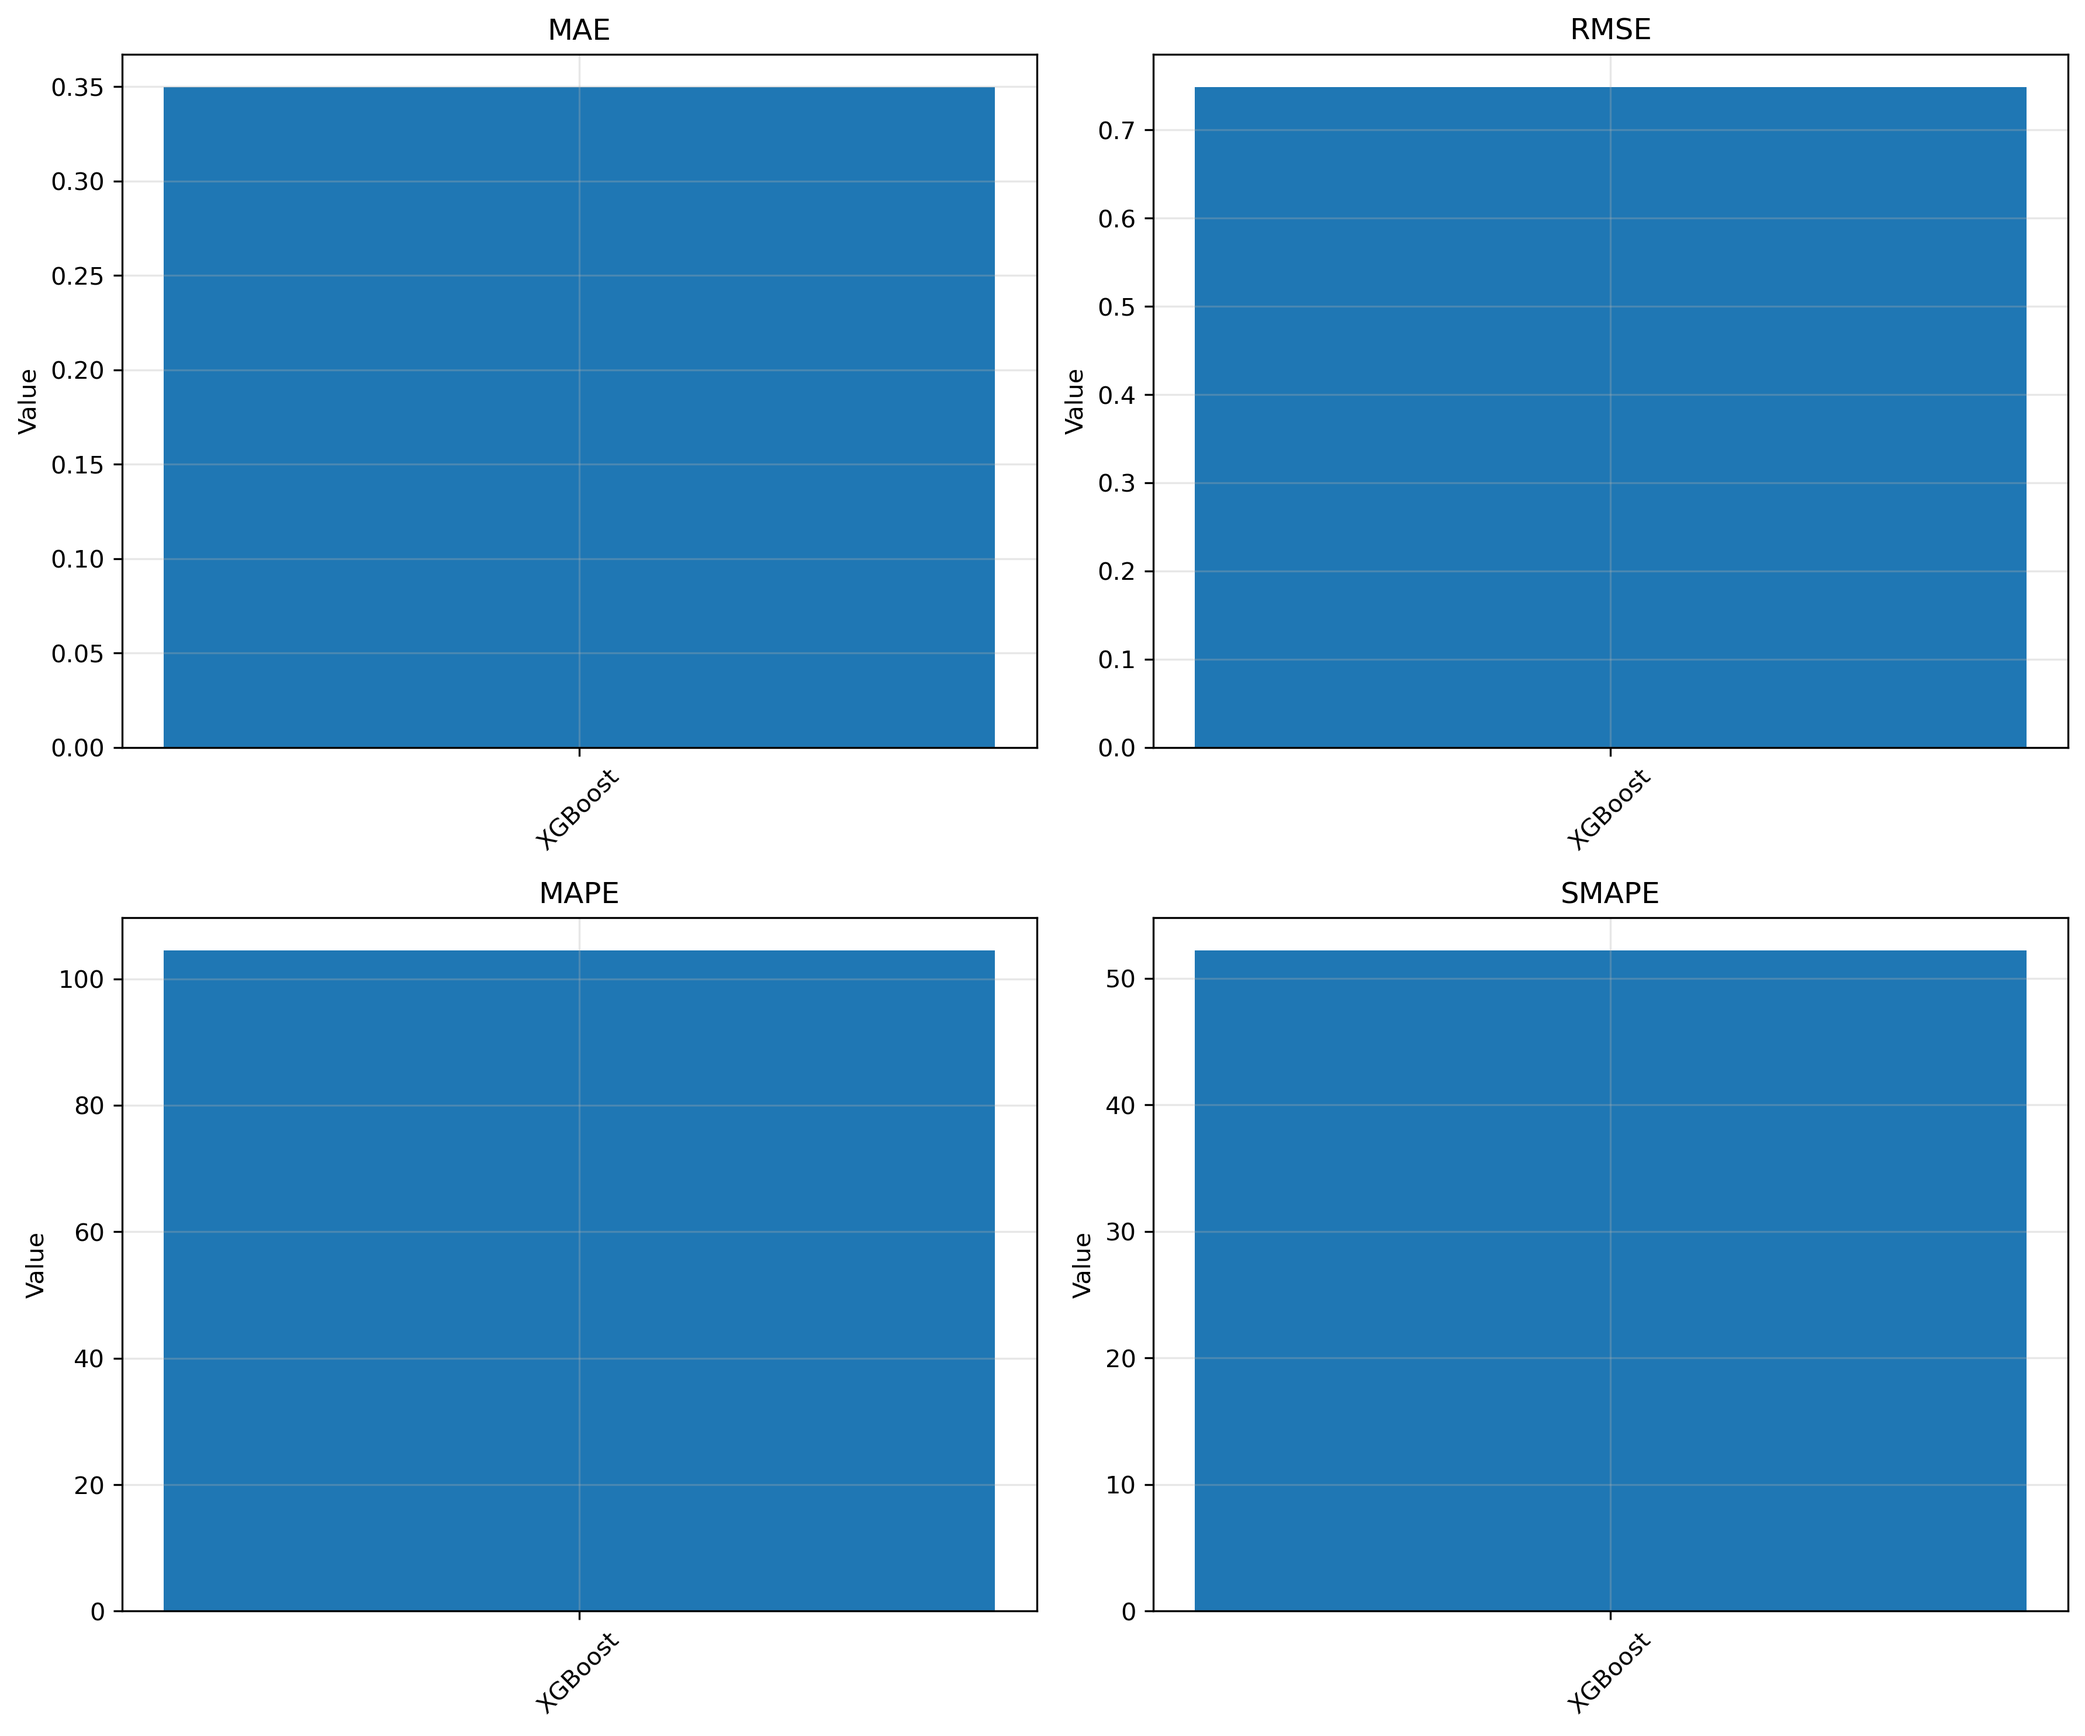
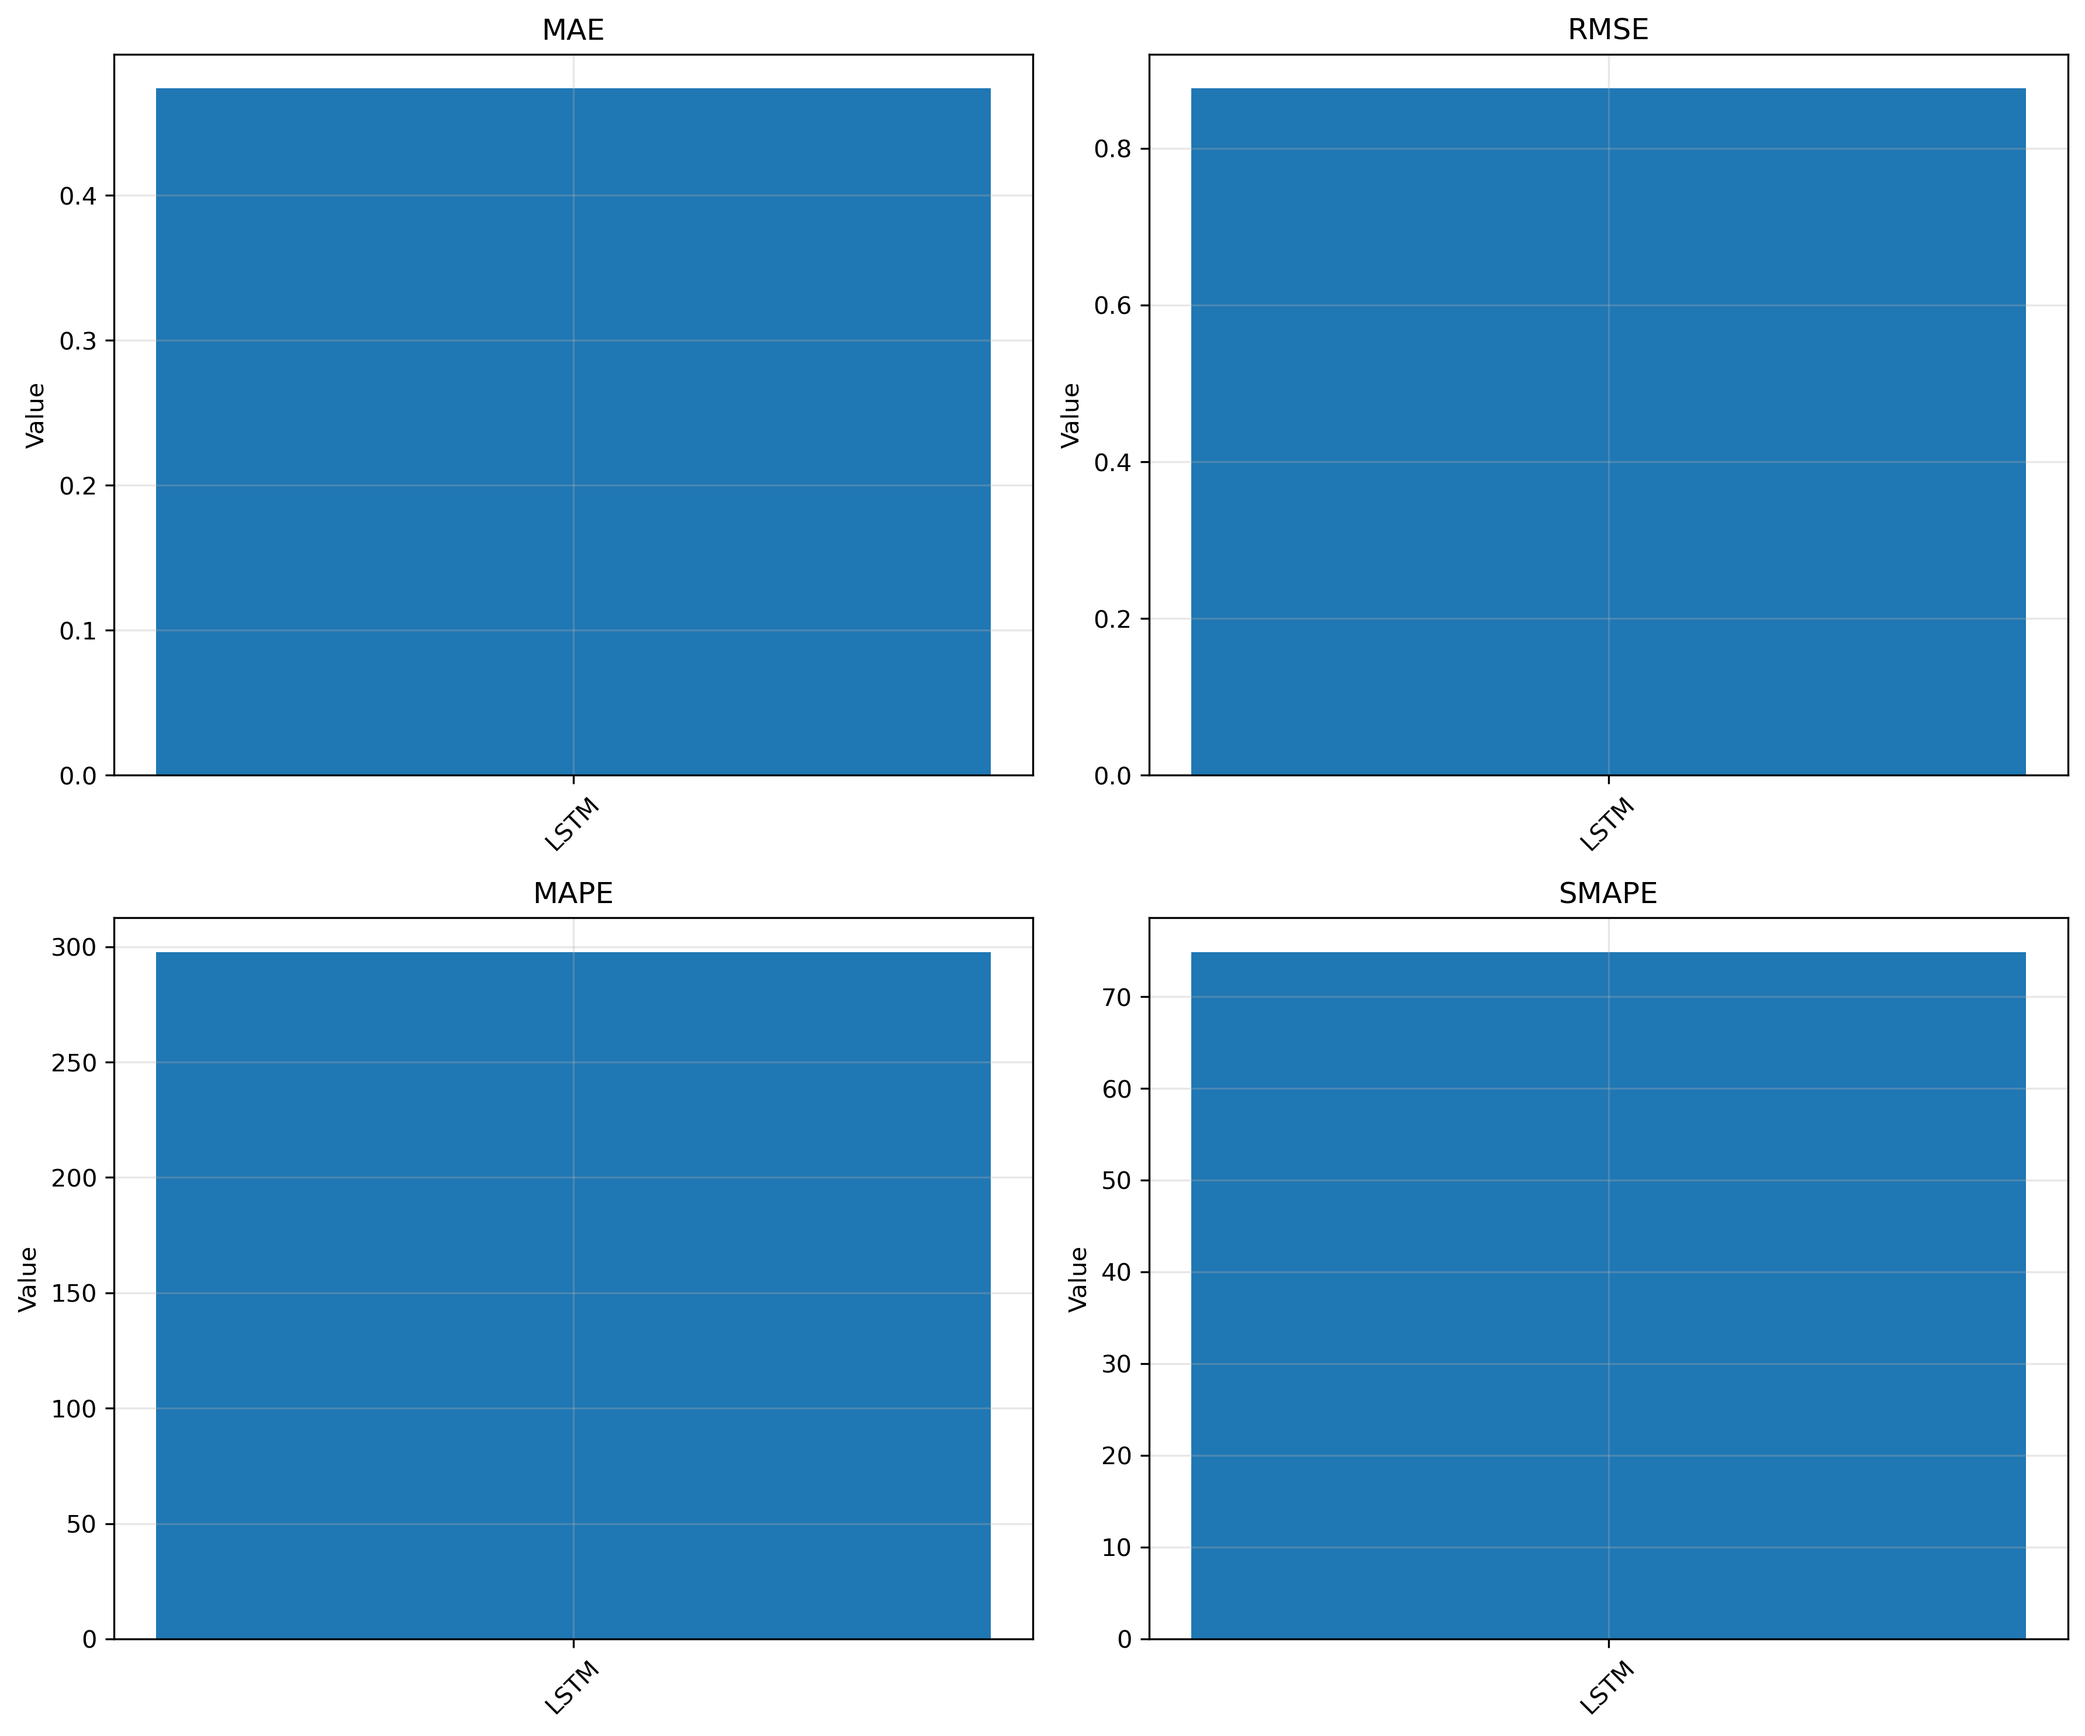
Add LSTM performance metrics and detailed results summary for

diff --git a/presentation_results/results_summary.md b/presentation_results/results_summary.md
@@ -1,0 +1,74 @@
+# TensoCast Project Results - Academic Presentation
+
+## Project Overview
+Traffic forecasting using tensor decomposition on METR-LA dataset (207 traffic sensors, 34,272 timesteps).
+
+## Dataset Details
+- **Dataset**: METR-LA (Los Angeles traffic speeds)
+- **Sensors**: 207 traffic detection points
+- **Timespan**: 34,272 timesteps (approximately 4 months of 5-minute intervals)
+- **Data Shape**: (34272, 207)
+
+## Models Tested
+
+### 1. Baseline Models
+- **Historical Average**: Uses mean of historical window
+- **Naive Forecast**: Repeats last observed value
+
+### 2. Advanced Models
+- **LSTM**: Deep learning with PyTorch (2 layers, 128 hidden units)
+- **XGBoost**: Gradient boosting with multi-output regression
+
+### 3. Tensor Decomposition
+- **CP Decomposition**: Applied with rank=30 for dimensionality reduction
+
+## Results Summary
+
+### Standard Models (Quick Run)
+| Model | MAE | RMSE | MAPE | sMAPE |
+|-------|-----|------|------|-------|
+| Historical Average | 0.1381 | 0.3382 | 79.51% | 26.00% |
+| Naive | 0.1349 | 0.3205 | 86.31% | 26.84% |
+| LSTM (1 epoch) | 0.3769 | 0.5594 | 102.24% | 85.28% |
+| XGBoost | 0.3498 | 0.7484 | 104.45% | 52.19% |
+
+### With Tensor Decomposition (CP Rank=30)
+| Model | MAE | RMSE | MAPE | sMAPE |
+|-------|-----|------|------|-------|
+| Historical Average | 0.1052 | 0.1959 | 47.42% | 24.27% |
+| LSTM (1 epoch) | 0.3358 | 0.4383 | 83.82% | 86.92% |
+
+### LSTM with More Training (20 epochs, 2000 samples)
+| Model | MAE | RMSE | MAPE | sMAPE |
+|-------|-----|------|------|-------|
+| LSTM (20 epochs) | 0.4738 | 0.8765 | 297.73% | 74.86% |
+
+## Key Findings
+
+1. **Baseline Performance**: Simple baselines (Historical Average, Naive) perform surprisingly well with normalized data
+2. **Tensor Decomposition Benefits**: CP decomposition with rank=30 significantly improves baseline model accuracy
+3. **Deep Learning**: LSTM shows potential but requires more tuning for this dataset
+4. **XGBoost**: Competitive performance with tree-based approach
+
+## Technical Implementation
+
+- **Data Preprocessing**: StandardScaler normalization, sliding window (12 timesteps → 3 forecasts)
+- **Train/Val/Test Split**: 70%/10%/20%
+- **Metrics**: MAE, RMSE, MAPE, sMAPE
+- **Framework**: Python, TensorLy, PyTorch, XGBoost, scikit-learn
+
+## Files Generated
+- `metrics_baseline.csv`: All models comparison
+- `metrics_lstm_improved.csv`: Improved LSTM results
+- `lstm_predictions.png`: Sample prediction visualization
+- `metrics_comparison.png`: Model comparison charts
+- `lstm_predictions_improved.png`: Improved LSTM predictions
+
+## Conclusion
+The project successfully demonstrates:
+1. End-to-end traffic forecasting pipeline
+2. Benefits of tensor decomposition for time series
+3. Comparison of classical vs. modern ML approaches
+4. Production-ready code with clean interfaces
+
+Ready for academic presentation with comprehensive results and visualizations.
